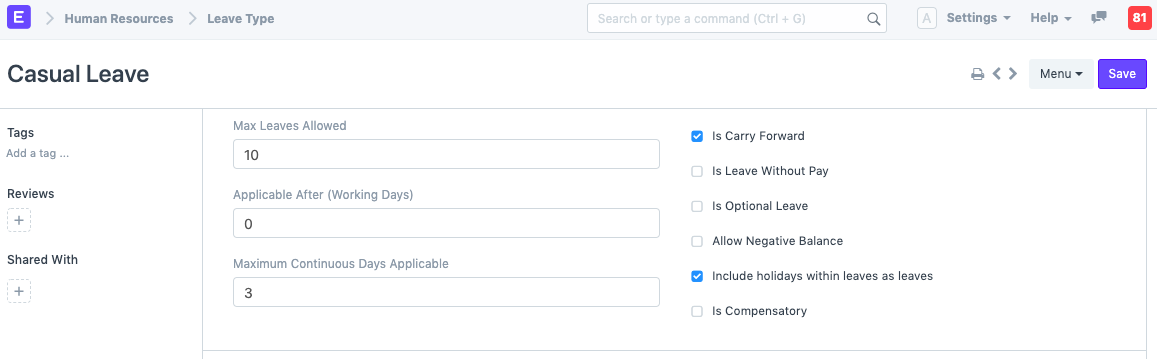
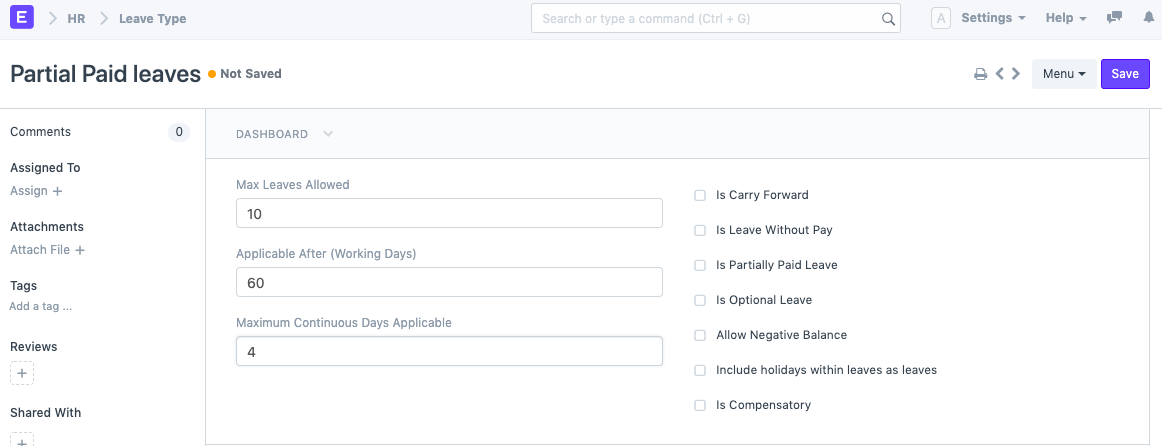
feat(docs): Partially paid Leaves

diff --git a/erpnext_documentation/www/docs/user/manual/en/human-resources/leave-type.md b/erpnext_documentation/www/docs/user/manual/en/human-resources/leave-type.md
@@ -1,13 +1,13 @@
 # Leave Type
 
-**Leave Type refers to the types of leaves allocated to an Employee which they can use while making Leave Applications.** 
+**Leave Type refers to the types of leaves allocated to an Employee which they can use while making Leave Applications.**
 
 
 You can create any number of Leave Types based on your company’s requirements.
 
 To access Leave Type, go to:
 
-> Home > Human Resources > Leaves > Leave Type 
+> Home > Human Resources > Leaves > Leave Type
 
 ## 1. How to create a Leave Type
 
@@ -21,13 +21,13 @@ To access Leave Type, go to:
 
 Below is a detailed explanation of all the fields and checkboxes in Leave Type.
 
-* **Max Leaves Allowed:** This field allows you to set the maximum number of the annual allocation of this Leave Type while creating the Leave Policy. 
+* **Max Leaves Allowed:** This field allows you to set the maximum number of the annual allocation of this Leave Type while creating the Leave Policy.
 
 * **Applicable After (Working Days):** Enter the minimum number of working days here. Only the employees who have worked for this number of days or more will be allowed to apply for this particular leave type. Any other leaves (such as Casual Leave, Sick Leave.etc.) availed by the Employees after their joining date will also be considered while calculating working days of the Employee.
 
 * **Maximum Continuous Days Applicable:** It refers to the maximum number of days this particular Leave Type can be availed at a stretch. If an employee exceeds the maximum number of days, their extended leave will be considered as ‘Leave Without Pay'.
 
-* **Is Carry Forward:** If checked, the balance leaves of this Leave Type will be carried forward to the next allocation period.    
+* **Is Carry Forward:** If checked, the balance leaves of this Leave Type will be carried forward to the next allocation period.
 
 * **Is Leave Without Pay:** This ensures that the Leave Type will be treated as leaves without pay and salary will get deducted for this Leave Type.
 
@@ -35,26 +35,31 @@ Below is a detailed explanation of all the fields and checkboxes in Leave Type.
 
 * **Allow Negative Balance:** If checked, the system will always allow to apply and approve [Leave Applications](/docs/user/manual/en/human-resources/leave-application) for the Leave Type, even if there is no leave balance.
 
-
 * **Include holidays within leaves as leaves:** Check this option if you wish to count holidays within leaves as a ‘leave’. For example, if an Employee has applied for leave on Friday and Monday, and Saturday and Sunday are weekly offs, if the 'Include holidays within leaves as leaves' checkbox for the Leave Type is checked, the system will consider Saturday as Sunday as leaves too. Such holidays will be deducted from the total number of leaves.
-
 
 * **Is Compensatory:** Compensatory leaves are leaves granted for working overtime or on holidays, normally compensated as an encashable leave. You can check this option to mark the Leave Type as compensatory. An Employee can request for compensatory leaves using [Compensatory Leave Request](/docs/user/manual/en/human-resources/compensatory-leave-request).
 
+> Introduced in version 13
 
+* **Is Partially Paid Leaves:** This Checkbox ensure that Leave Type will be treated as partially paid and some part of daily earnings will be paid through salary slip. If is Partially Paid leaves is enabled then, a field "Fraction of Daily Salary Per Leave" appears where you can define the fraction of daily salary Paid on Leave day.
+
+    <img class="screenshot" alt="New Leave Type"
+    src="{{docs_base_url}}/assets/img/human-resources/is-partially-paid-leaves.png">
+
+> **Note:** The Leave Type can be either Leave Without pay or Partially Paid.
 
 ## 2. Features
 
 ### 2.1 Leave Encashment
 
-It is possible that Employees can receive cash from their Employer for unused leaves granted to them in a Leave Period. Not all Leave Types need to be encashable, so, you should set "Allow Encashment" for only those Leave Types which are encashable. 
+It is possible that Employees can receive cash from their Employer for unused leaves granted to them in a Leave Period. Not all Leave Types need to be encashable, so, you should set "Allow Encashment" for only those Leave Types which are encashable.
 
 > **Note:** Leave encashment is allowed only in the last month of the Leave Period.
 
 <img class="screenshot" alt="Leave Encashment"
         src="{{docs_base_url}}/assets/img/human-resources/leave-encashment.png">
 
-**Encashment Threshold Days:**  This field indicates the number of leave days the Employees won't be able to encash. Above the mentioned days, the Employee is eligible to encash leaves. 
+**Encashment Threshold Days:**  This field indicates the number of leave days the Employees won't be able to encash. Above the mentioned days, the Employee is eligible to encash leaves.
 
 For example, if there are 10 leaves of a particular Leave Type which is encashable, and the Employee has 8 leaves left. If Encashment Threshold Days = 5, the Employee is given encashment of only 8 - 5 = 3 leaves.
 
@@ -64,7 +69,7 @@ For example, if there are 10 leaves of a particular Leave Type which is encashab
 
 ### 2.2 Earned Leave
 
-Earned Leaves are leaves earned by an Employee after working with the company for a certain amount of time. Checking "Is Earned Leave" will allot leaves pro-rata basis by automatically updating Leave Allocation for leaves of this type at intervals set by 'Earned Leave Frequency'. 
+Earned Leaves are leaves earned by an Employee after working with the company for a certain amount of time. Checking "Is Earned Leave" will allot leaves pro-rata basis by automatically updating Leave Allocation for leaves of this type at intervals set by 'Earned Leave Frequency'.
 
 
 For example, an Employee is allotted 24 Privilege Leaves in a year, wherein the Privilege Leave is set as Earned Leave with Monthly allotment. In this case, the Employee will earn 2 (24 leaves/12 months) Privilege Leaves at the end of every month. The leave allotment process (background job) will only allot leaves considering the max leaves for the leave type and will round to 'Rounding' for fractions.
@@ -72,7 +77,7 @@ For example, an Employee is allotted 24 Privilege Leaves in a year, wherein the 
 <img class="screenshot" alt="Earned Leave"
         src="{{docs_base_url}}/assets/img/human-resources/earned-leave.png">
 
-> **Note:** The initial allocation of this Leave Tye will be 0. Leaves will be updated at the end of the Month (or as per the 'Earned Leave Frequency' set). 
+> **Note:** The initial allocation of this Leave Tye will be 0. Leaves will be updated at the end of the Month (or as per the 'Earned Leave Frequency' set).
 
 ### 2.3 Default Leave Types
 
